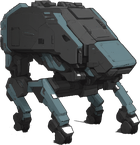
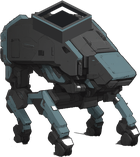
feat(art): give the Builder a visible cargo cradle — drawn, not generated
User asked for the cradle to read clearly on the Builder's back.

TWO MORE GENERATION ROUNDS FAILED, AND THE FAILURE IS STRUCTURAL. r7 described
the cradle as open skeletal frame rails, r8 as "a big separate box like a skip on
a truck". Neither landed, because prompt weight is finite: describing the cradle
strongly enough to appear steals weight from the clauses holding the body
together, and every promising candidate came back with the cast shadow, the
orange dominance or the long legs restored — undoing the fixes of rounds 1-6.

So the cradle is authored geometry (draw_cargo_cradle.py) composited onto the
approved master. Same call ASSET-006/007 made for the terrain tiles: when the
requirement is precise, a draw hits it by construction and a generator cannot.

Three things decided the shape:
- A BOX, NOT AN OPEN FRAME. The sprite ships 140px wide; rails a few
  master-pixels thick are sub-pixel after the downscale and disappear. What
  survives a resample is silhouette, so the cradle is a hard mass breaking the
  top outline, its opening read as a dark interior rather than thin geometry.
- PALETTE SAMPLED OFF THE RENDER, NOT THE SPEC. The brief's #6E7C99 is markedly
  blue; what the generator actually painted is near-neutral (median 110,111,111).
  Mixed at the nominal value the cradle read as a bolt-on from another machine.
- CONTACT SHADING IS NOT OPTIONAL. A flat box with no occlusion where it meets
[…]

diff --git a/tools/asset-pipeline/draw_cargo_cradle.py b/tools/asset-pipeline/draw_cargo_cradle.py
@@ -1,0 +1,192 @@
+#!/usr/bin/env python3
+"""Draw the Builder's open cargo cradle and seat it on an approved unit master.
+
+    python3 tools/asset-pipeline/draw_cargo_cradle.py IN.png OUT.png [--cx 540] ...
+
+WHY DRAWN AND NOT PROMPTED. Two full generation rounds (r7 "open skeletal frame
+rails", r8 "a big separate box like a skip on a truck") failed to put a legible
+cradle on this machine's back. Every attempt that described the cradle strongly
+enough to appear also disturbed the body the user had already approved as
+"shorter and bulkier" — bringing back cast shadows, orange dominance and long
+legs, because prompt weight is finite and adding to one clause steals from
+another. This is the same call ASSET-006/007 made for the terrain tiles: when a
+requirement is *precise*, a generator cannot hit it and a draw can, by
+construction.
+
+WHY A CLOSED-ISH BOX AND NOT AN OPEN FRAME. The sprite ships 140 px wide. Frame
+rails a few master-pixels thick are sub-pixel after the downscale and vanish; what
+survives a resample is SILHOUETTE. So the cradle is a hard-edged mass that stands
+proud of the hull line and breaks the top outline, with its opening read as a dark
+interior rather than as thin geometry.
+
+GEOMETRY. A 2:1 dimetric open-topped box: a rhombus rim, two visible outer side
+faces extruded down, and a darker inner well so it reads as carrying nothing. The
+canvas grows upward to make room, and the master is re-seated — the returned image
+keeps the original ground-contact pivot at bottom-centre (art bible §8.4), so the
+placement step downstream is unchanged.
+
+VALUE. §4.1 differentiates faces in lightness only, so the three cradle faces are
+one plating colour stepped down, never re-hued. The accent rim uses the rush hue;
+`recolor.py` re-keys it for boom/neutral exactly as it does the rest of the sprite,
+which is why the cradle must be painted in the SAME accent as the body rather than
+in a bespoke colour.
+
+Anti-aliasing: drawn at 4x and downsampled, matching draw_cover_tile.py.
+"""
+
+from __future__ import annotations
+
+import argparse
+
+from PIL import Image, ImageDraw
+
+SS = 4  # supersample factor
+
+# Unit palette (art bible §4.1 / the infantry family recipe).
+# ⚠ Pulled toward the RENDERED hull's greys, not the spec swatches. The spec's
+# #6E7C99 is what the generator was ASKED for; what it actually painted is a
+# desaturated, slightly warmer grey, and a cradle mixed at the nominal value reads
+# as a bluer bolt-on part sitting on a different machine.
+# Sampled off THIS master's own plating rather than taken from the spec swatch:
+# the render's greys are near-neutral (median rgb 110,111,111; lit panels 160,162,
+# 162), while the spec's #6E7C99 is markedly blue. A cradle mixed at the nominal
+# value reads as a bolt-on from a different machine. Measure the render, not the
+# brief.
+PLATE_LIT = (0x96, 0x98, 0x9A)   # lit top/rim   — just under the hull's lit panels
+PLATE_MID = (0x70, 0x72, 0x76)   # base plating   — the hull's median
+PLATE_DARK = (0x4A, 0x4C, 0x52)  # shadowed outer face
+WELL_DARK = (0x24, 0x2C, 0x3E)   # inner well — reads as empty, not as a lid
+ACCENT = (0xFF, 0x5A, 0x2E)      # rush accent; recolor.py re-keys this
+INK = (0x22, 0x26, 0x30)         # outline
+
+
+def _rhombus(cx: float, cy: float, w: float) -> list[tuple[float, float]]:
+    """2:1 dimetric rhombus centred on (cx, cy), `w` wide and w/2 tall."""
+    hw, hh = w / 2.0, w / 4.0
+    return [(cx, cy - hh), (cx + hw, cy), (cx, cy + hh), (cx - hw, cy)]
+
+
+def draw_cradle(canvas: Image.Image, cx: float, cy: float, width: float,
+                height: float, wall: float) -> None:
+    """Paint an open-topped iso box whose RIM centre is (cx, cy)."""
+    d = ImageDraw.Draw(canvas)
+    outer = _rhombus(cx, cy, width)
+    inner = _rhombus(cx, cy, width - wall * 2)
+
+    n, e, s, w = outer
+    _, ie, is_, iw = inner
+
+    # --- inner well: floor + the two far inner walls, so the opening has depth --
+    floor_depth = height * 0.55
+    floor = _rhombus(cx, cy + floor_depth, width - wall * 2)
+    d.polygon([iw, (iw[0], iw[1] + floor_depth), (floor[2][0], floor[2][1]),
+               is_], fill=WELL_DARK)
+    d.polygon([ie, (ie[0], ie[1] + floor_depth), (floor[2][0], floor[2][1]),
+               is_], fill=WELL_DARK)
+    d.polygon(floor, fill=WELL_DARK)
+    # the near inner faces (behind the rim) — darkest, they never catch light
+    d.polygon([iw, inner[0], ie, (ie[0], ie[1] + floor_depth * 0.5),
+               (cx, cy - _rhombus(0, 0, width - wall * 2)[0][1] * -1 + floor_depth * 0.5),
+               (iw[0], iw[1] + floor_depth * 0.5)], fill=WELL_DARK)
+
+    # --- outer side faces, extruded straight down --------------------------
+    d.polygon([w, s, (s[0], s[1] + height), (w[0], w[1] + height)],
+              fill=PLATE_MID, outline=INK)
+    d.polygon([s, e, (e[0], e[1] + height), (s[0], s[1] + height)],
+              fill=PLATE_DARK, outline=INK)
+
+    # --- rim: the band between outer and inner rhombus ---------------------
+    for a, b in ((0, 1), (1, 2), (2, 3), (3, 0)):
+        d.polygon([outer[a], outer[b], inner[b], inner[a]],
+                  fill=PLATE_LIT, outline=INK)
+
+    # --- accent: the two rim edges facing the camera ------------------------
+    band = max(wall * 0.45, 2.0)
+    for a, b in ((3, 2), (2, 1)):          # W->S and S->E, the near edges
+        ax, ay = outer[a]
+        bx, by = outer[b]
+        d.polygon([(ax, ay), (bx, by), (bx, by + band), (ax, ay + band)],
+                  fill=ACCENT)
+
+    d.line([*outer, outer[0]], fill=INK, width=max(1, int(SS * 0.9)))
+    d.line([*inner, inner[0]], fill=INK, width=max(1, int(SS * 0.7)))
+
+
+def _shade_contact(base: Image.Image, cradle: Image.Image, cx: float, cy: float,
+                   width: float, height: float, drop: float = 0.30,
+                   strength: float = 0.62) -> None:
+    """Multiply the hull under the cradle's footprint, so it sits IN the machine."""
+    band = int(height * drop)
+    x0, x1 = int(cx - width / 2), int(cx + width / 2)
+    y0 = int(cy + height * 0.45)
+    px = base.load()
+    cp = cradle.load()
+    for y in range(max(0, y0), min(base.height, y0 + band)):
+        # fade the shade out with depth so the band has no hard lower edge
+        t = 1.0 - (y - y0) / max(band, 1)
+        k = 1.0 - (1.0 - strength) * t
+        for x in range(max(0, x0), min(base.width, x1)):
+            if cp[x, y][3] > 0:      # never darken the cradle itself
+                continue
+            r, g, b, a = px[x, y]
+            if a == 0:
+                continue
+            px[x, y] = (int(r * k), int(g * k), int(b * k), a)
+
+
+def main() -> None:
+    p = argparse.ArgumentParser(description=__doc__,
+                                formatter_class=argparse.RawDescriptionHelpFormatter)
+    p.add_argument("src", help="approved master from art-source/cleaned/")
+    p.add_argument("dst")
+    p.add_argument("--cx", type=float, default=0.56,
+                   help="rim centre X as a fraction of master width")
+    p.add_argument("--cy", type=float, default=0.055,
+                   help="rim centre Y as a fraction of master height (from the top "
+                        "of the GROWN canvas)")
+    p.add_argument("--width", type=float, default=0.46,
+                   help="cradle width as a fraction of master width")
+    p.add_argument("--height", type=float, default=0.13,
+                   help="extrusion height as a fraction of master height")
+    p.add_argument("--wall", type=float, default=0.030,
+                   help="rim thickness as a fraction of master width")
+    p.add_argument("--grow", type=float, default=0.16,
+                   help="extra canvas above the master, fraction of its height")
+    args = p.parse_args()
+
+    master = Image.open(args.src).convert("RGBA")
+    mw, mh = master.size
+    pad = int(mh * args.grow)
+
+    # Grow upward and re-seat the master, keeping bottom-centre as the pivot.
+    canvas = Image.new("RGBA", (mw, mh + pad), (0, 0, 0, 0))
+    canvas.alpha_composite(master, (0, pad))
+
+    big = canvas.resize((canvas.width * SS, canvas.height * SS), Image.NEAREST)
+    layer = Image.new("RGBA", big.size, (0, 0, 0, 0))
+    draw_cradle(
+        layer,
+        cx=args.cx * mw * SS,
+        cy=args.cy * (mh + pad) * SS,
+        width=args.width * mw * SS,
+        height=args.height * mh * SS,
+        wall=args.wall * mw * SS,
+    )
+    # ★ Contact shading BEFORE the cradle goes down: darken the hull in a band
+    # under the cradle's footprint. Without it the box reads as pasted on — a
+    # flat-shaded object with no occlusion anywhere it meets the body looks like a
+    # sticker, which is exactly what the first draft looked like.
+    _shade_contact(big, layer,
+                   cx=args.cx * mw * SS,
+                   cy=args.cy * (mh + pad) * SS,
+                   width=args.width * mw * SS,
+                   height=args.height * mh * SS)
+    big.alpha_composite(layer)
+    out = big.resize(canvas.size, Image.LANCZOS)
+    out = out.crop(out.getbbox())
+    out.save(args.dst)
+    print(f"{args.dst}: {out.width}x{out.height} (master was {mw}x{mh})")
+
+
+if __name__ == "__main__":
+    main()

diff --git a/design/assets/asset-manifest.md b/design/assets/asset-manifest.md
@@ -66,7 +66,7 @@ Role silhouettes separate fine without hue; army ownership does not. The art bib
 **non-hue ownership markers** (trim pattern / emblem / silhouette-family trait) remain the actual
 fix — this is the measured number for that work.
 
-| ASSET-012 | Builder | Infantry (4 facings) | rush/boom/neutral | Done (idle) | ★ **Squat four-legged CARRIER walker** — body plan chosen by user 2026-08-25; **re-proportioned shorter and bulkier at user request 2026-08-26** (`builder_rush_r6_c2.png`, seed 1510903717, superseding r3_c2 which read too tall and leggy). The body now dominates the silhouette and the legs are short and crouched. ⚠ The overall sprite aspect barely moved (0.95 → 0.97) — what changed is the **body-to-leg ratio**, which no bounding-box metric detects; judge it by eye. ⚠ Three rounds to get there: shrinking the legs makes SDXL **delete** them (legless sled, tracked barge), and piling on bulk words displaced the grey/four-leg clauses entirely. **Crouching the legs is the lever, not scaling them.** Its cast shadow WAS liftable (machine luma 99 vs shadow 117 — unlike r2, where they measured identical), via a border flood plus an enclosed-pocket clear for the patch walled in by the legs. The roster's only support unit; defenceless and consumed by the structure it raises, so the silhouette must read "not a soldier". Sized by **width** at 140px — narrower than the Scout's 148 so the two four-legged units stay tellable apart. ⚠ **Base look was NOT user-approved**; it was selected by the session and then re-proportioned on user feedback. Full post-mortem — including round 1's orange-dominance and round 2's genuinely unremovable shadow — in `generation-prompts.md` |
+| ASSET-012 | Builder | Infantry (4 facings) | rush/boom/neutral | Done (idle) | ★ **Squat four-legged CARRIER walker** — body plan chosen by user 2026-08-25; **re-proportioned shorter and bulkier at user request 2026-08-26** (`builder_rush_r6_c2.png`, seed 1510903717, superseding r3_c2 which read too tall and leggy). The body now dominates the silhouette and the legs are short and crouched. ⚠ The overall sprite aspect barely moved (0.95 → 0.97) — what changed is the **body-to-leg ratio**, which no bounding-box metric detects; judge it by eye. ⚠ Three rounds to get there: shrinking the legs makes SDXL **delete** them (legless sled, tracked barge), and piling on bulk words displaced the grey/four-leg clauses entirely. **Crouching the legs is the lever, not scaling them.** ★ **Cargo cradle DRAWN and composited 2026-08-26** (`tools/asset-pipeline/draw_cargo_cradle.py`) after two further generation rounds could not put a legible one on its back without undoing the body — prompt weight is finite, so strengthening the cradle clause restored the shadow/orange/long-leg failures. Sprite grew 145 → 157 px tall as a result; a visible cradle and a minimal silhouette are opposed and this is the chosen point on that trade. Its cast shadow WAS liftable (machine luma 99 vs shadow 117 — unlike r2, where they measured identical), via a border flood plus an enclosed-pocket clear for the patch walled in by the legs. The roster's only support unit; defenceless and consumed by the structure it raises, so the silhouette must read "not a soldier". Sized by **width** at 140px — narrower than the Scout's 148 so the two four-legged units stay tellable apart. ⚠ **Base look was NOT user-approved**; it was selected by the session and then re-proportioned on user feedback. Full post-mortem — including round 1's orange-dominance and round 2's genuinely unremovable shadow — in `generation-prompts.md` |
 | ASSET-008 | Sniper | Unit | rush/boom/neutral | Done (idle) | **Base look approved 2026-08-19: `art-source/generated/asset-008-sniper/sniper_rush_r6_c1.png`** (seed 1599279841). Was "deferred" in the spec until the renderer made its absence visible. Ships at **h=156**, the tallest infantry — §3.1 puts it opposite the Scout on the posture axis, and that ratio is the primary thumbnail read. ⚠ Value-corrected in post: the raw generation came out at luma 0.253 against the roster's 0.355, i.e. the "units must be LIGHTER than the stage" defect the infantry session documented, hit again |
 | ASSET-009 | Factory *(was Economy Outpost)* | Structure | rush/boom/neutral | Done (idle) | **Base look approved 2026-08-19: `econ_rush_r5_c2.png`** (seed 2305656182). §3.2 identifier: low + wide, horizontal emphasis, collector forms. Took **5 rounds** — "solar array / collector panels" reliably summons a whole city block (the same failure `factory` has); the singular `bunker` noun plus angled intake vanes is what converged |
 | ASSET-010 | Defensive Structure | Structure | rush/boom/neutral | Done (idle) | **Base look approved 2026-08-19: `def_rush_r2_c2.png`** (seed 3933358768). §3.2 identifier: compact/thick/symmetrical with one dominant elevated emplacement breaking the top. Cleanest convergence of the four — **2 rounds** |

diff --git a/design/assets/specs/generation-prompts.md b/design/assets/specs/generation-prompts.md
@@ -323,6 +323,39 @@ the Scout, but shipped narrower so the two four-legged units stay tellable apart
 > what actually changed is the BODY-TO-LEG RATIO, which that metric cannot see. Look at the
 > sprites.
 
+
+> #### ⚑ The cargo cradle is DRAWN, not generated (2026-08-26)
+>
+> User asked for the cradle to read clearly on the back. Two more rounds tried:
+> **r7** described it as open skeletal frame rails, **r8** as "a big separate box like a skip on a
+> truck". Neither landed. The failure is structural, not bad luck: **prompt weight is finite**, so
+> describing the cradle strongly enough to appear steals weight from the clauses holding the body
+> together — every promising r7/r8 candidate came back with the cast shadow, the orange dominance
+> or the long legs restored, i.e. undoing the very fixes of rounds 1–6.
+>
+> ★ So the cradle is authored geometry: `tools/asset-pipeline/draw_cargo_cradle.py`, composited
+> onto the approved r6_c2 master. Same call `ASSET-006`/`007` made for the terrain tiles — **when
+> the requirement is precise, a draw hits it by construction and a generator cannot.**
+>
+> Three things that decided the shape:
+> - **A box, not an open frame.** At the shipped 140 px, rails a few master-pixels thick are
+>   sub-pixel and vanish. What survives a resample is SILHOUETTE, so the cradle is a hard mass that
+>   breaks the top outline, with its opening read as a dark interior rather than as thin geometry.
+> - **Palette sampled off the render, not the spec.** The brief's `#6E7C99` is markedly blue; what
+>   the generator actually painted is near-neutral (median rgb 110,111,111, lit panels 160,162,162).
+>   A cradle mixed at the nominal value reads as a bolt-on from a different machine.
+> - **Contact shading is not optional.** A flat-shaded box with no occlusion where it meets the
+>   hull reads as a sticker. `_shade_contact()` multiplies the hull under the cradle footprint.
+>
+> ⚠ **The rim must be painted in the shared `ACCENT` constant**, because that is what `recolor.py`
+> keys on — it is why the cradle turns cyan/silver with the rest of the body instead of staying
+> orange in every faction.
+>
+> ⚠ **Cost: the sprite grew 145 → 157 px tall.** A cradle standing proud of the back necessarily
+> gives back some of the "shorter" from round 6; it is sunk as deep as it can go while still
+> reading as carried. That tension is inherent — a visible cradle and a minimal silhouette are
+> opposed, and this is the chosen point on that trade.
+
 > #### Shadow removal on r6_c2 — the opposite case to r2, and worth contrasting
 >
 > This render's shadow **is** liftable, and the measurement is why: machine median luma **99**,
